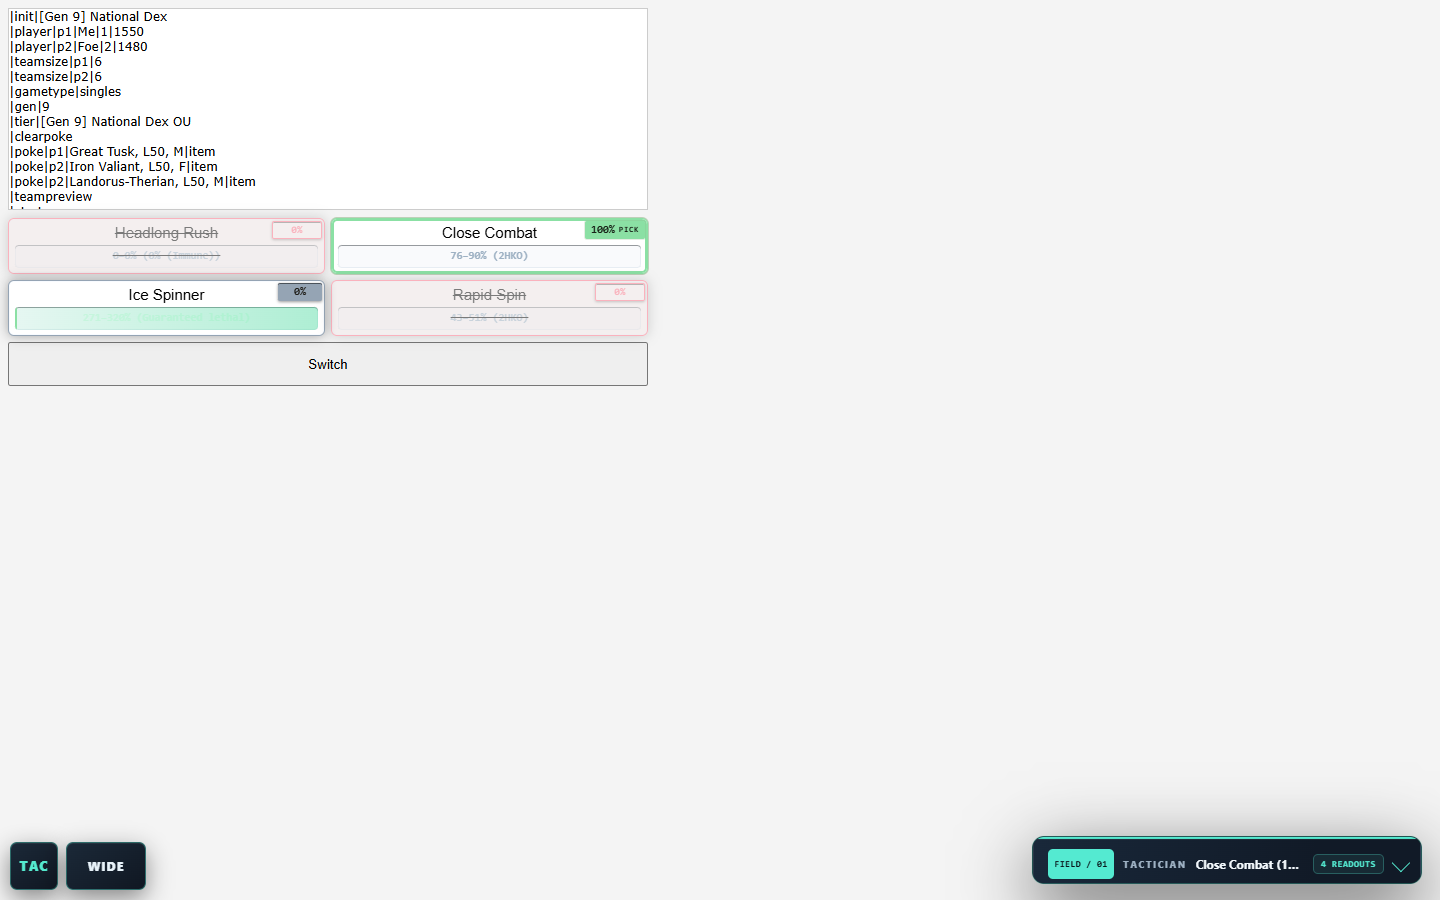
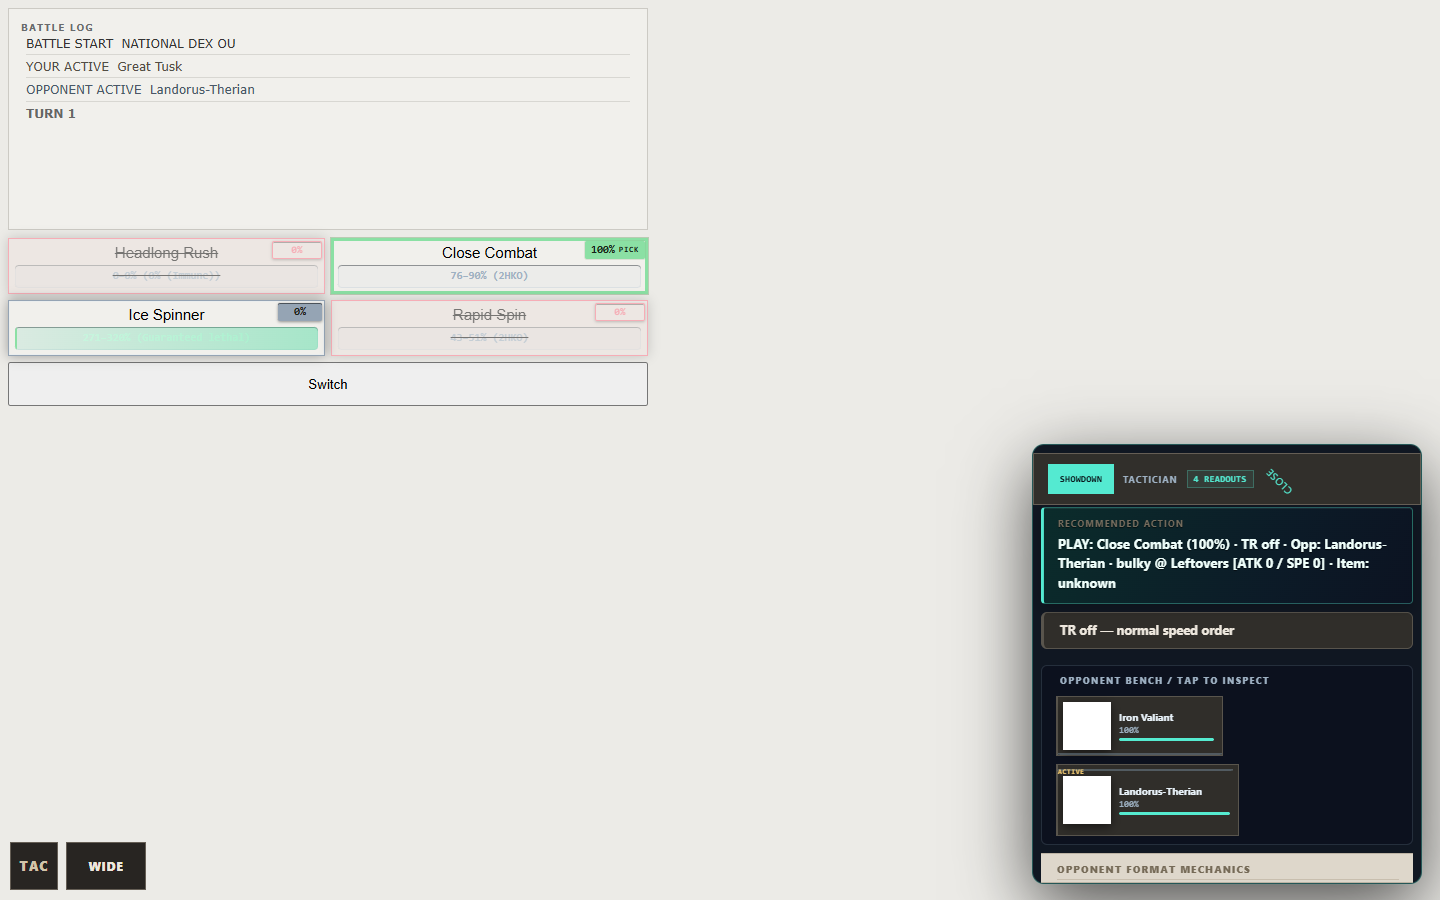
Refresh HUD previews from the revised browser fixture.
🤖 Generated with Codebuff

Changed region(s): [[0.6562, 0.4356, 1.0, 1.0], [0.0, 0.0, 0.4688, 0.4356], [0.0, 0.9333, 0.125, 1.0]]

diff --git a/tests/e2e/02-hud.spec.js b/tests/e2e/02-hud.spec.js
@@ -443,6 +443,9 @@ test('the mobile match readout is compact, accessible, flat, and expands below t
   expect(expanded.colors.hidden).toBe('false');
   expect(expanded.colors.height).toBeGreaterThanOrEqual(48);
   expect(expanded.colors.touchHeight).toBeGreaterThanOrEqual(44);
+  if (process.env.HUD_PREVIEW_DIR) {
+    await page.screenshot({ path: require('path').join(process.env.HUD_PREVIEW_DIR, 'mobile-field-atlas.png'), scale: 'css' });
+  }
   expect(opened.errors, opened.errors.join('\n')).toHaveLength(0);
   await page.close();
 });
@@ -471,6 +474,16 @@ test('opponent roster shows sprite art, active state, and HP rails on desktop', 
   expect(cards.some(function (card) { return card.name === 'Landorus-Therian'; })).toBe(true);
   expect(cards.every(function (card) { return card.meter === '100%'; })).toBe(true);
   expect(opened.errors, opened.errors.join('\\n')).toHaveLength(0);
+  if (process.env.HUD_PREVIEW_DIR) {
+    await page.setViewportSize({ width: 1440, height: 900 });
+    await page.waitForTimeout(250);
+    await page.evaluate(function () {
+      const consolePanel = document.querySelector('.st-console');
+      if (consolePanel) consolePanel.setAttribute('data-st-console-open', '1');
+    });
+    await page.waitForTimeout(250);
+    await page.screenshot({ path: require('path').join(process.env.HUD_PREVIEW_DIR, 'desktop-field-atlas.png'), scale: 'css' });
+  }
   await page.close();
 });
 
